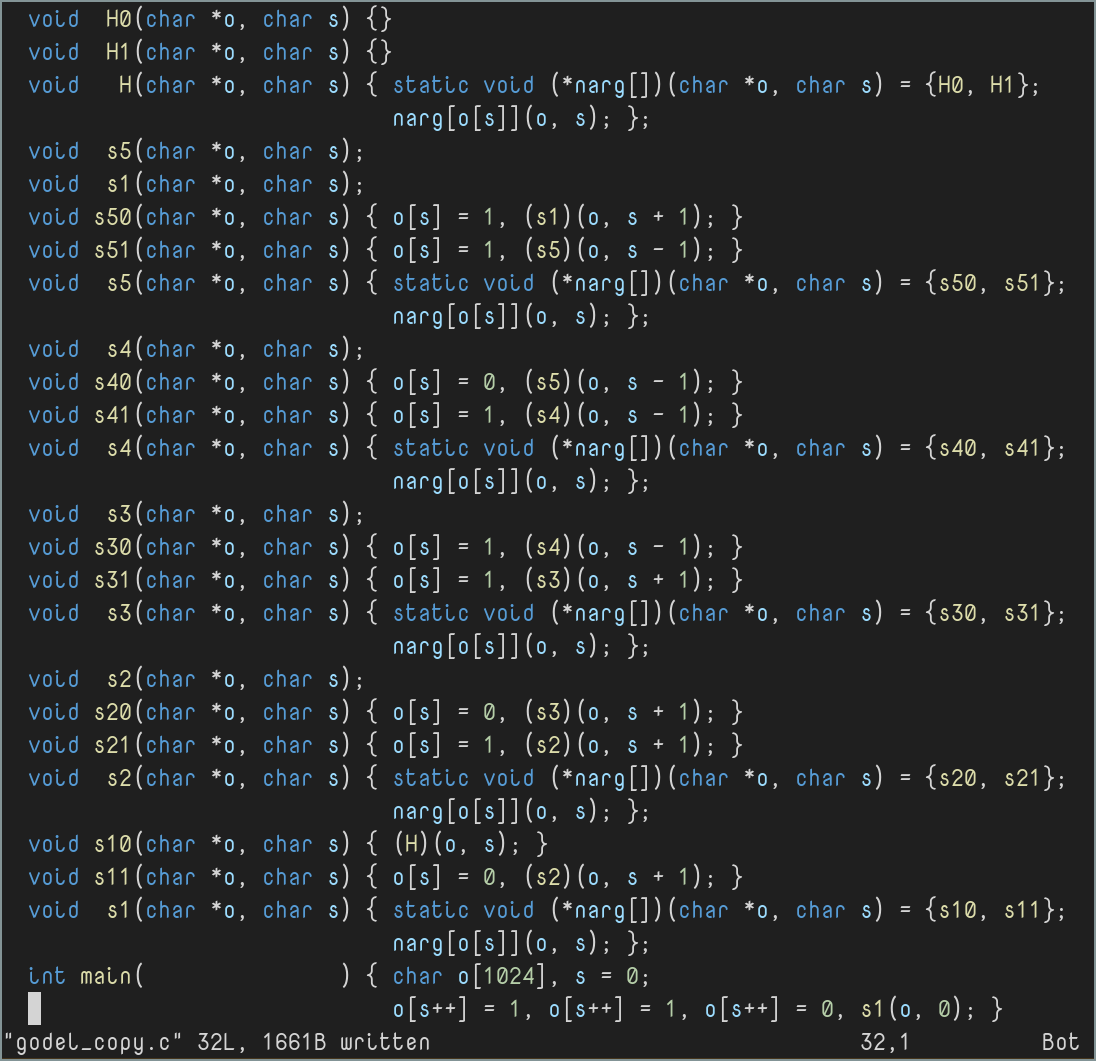
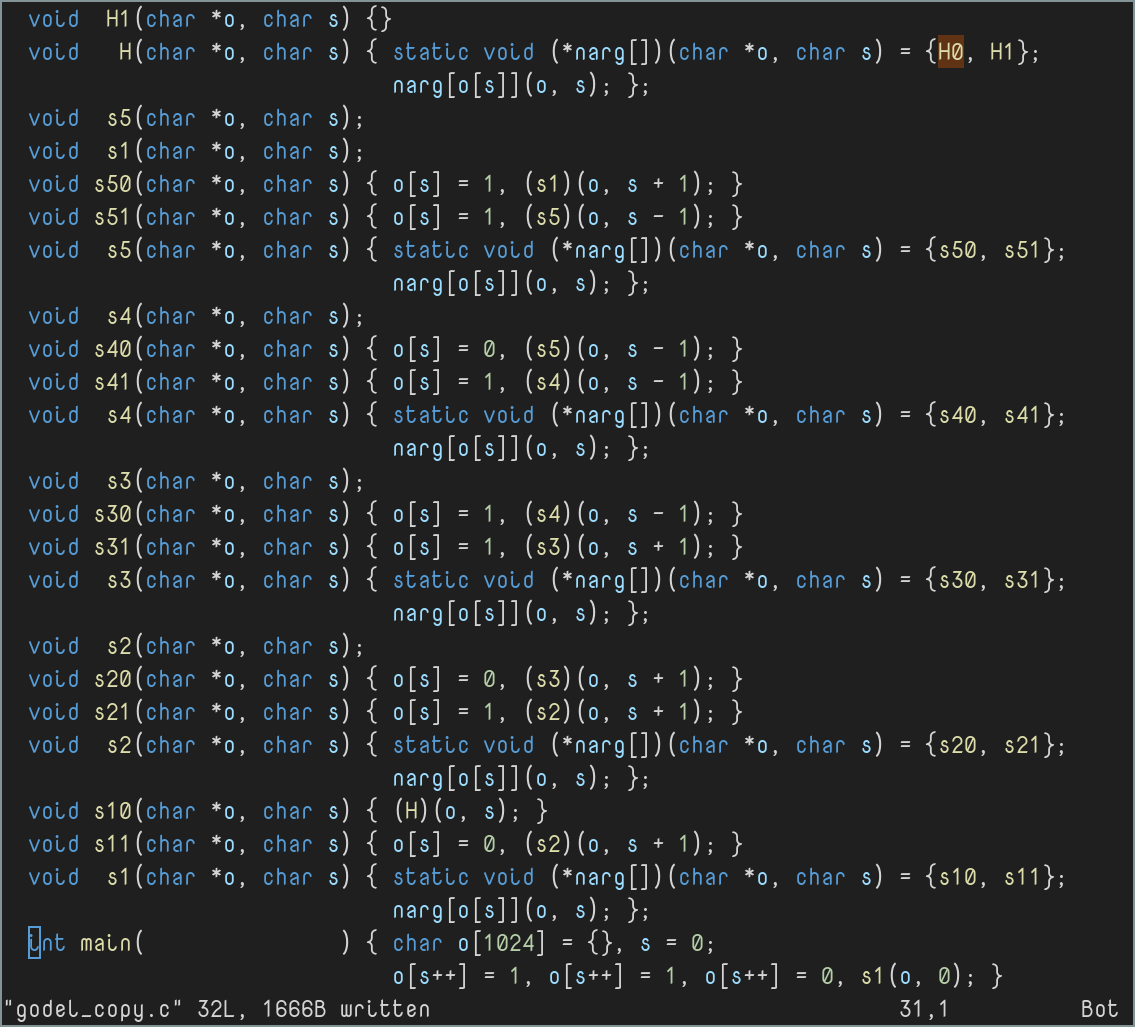
fix: clear type

diff --git a/godel_copy.c b/godel_copy.c
@@ -28,5 +28,5 @@ void s10(char *o, char s) { (H)(o, s); }
 void s11(char *o, char s) { o[s] = 0, (s2)(o, s + 1); }
 void  s1(char *o, char s) { static void (*narg[])(char *o, char s) = {s10, s11};
                             narg[o[s]](o, s); };
-int main(               ) { char o[1024], s = 0;
+int main(               ) { char o[1024] = {}, s = 0;
                             o[s++] = 1, o[s++] = 1, o[s++] = 0, s1(o, 0); }
